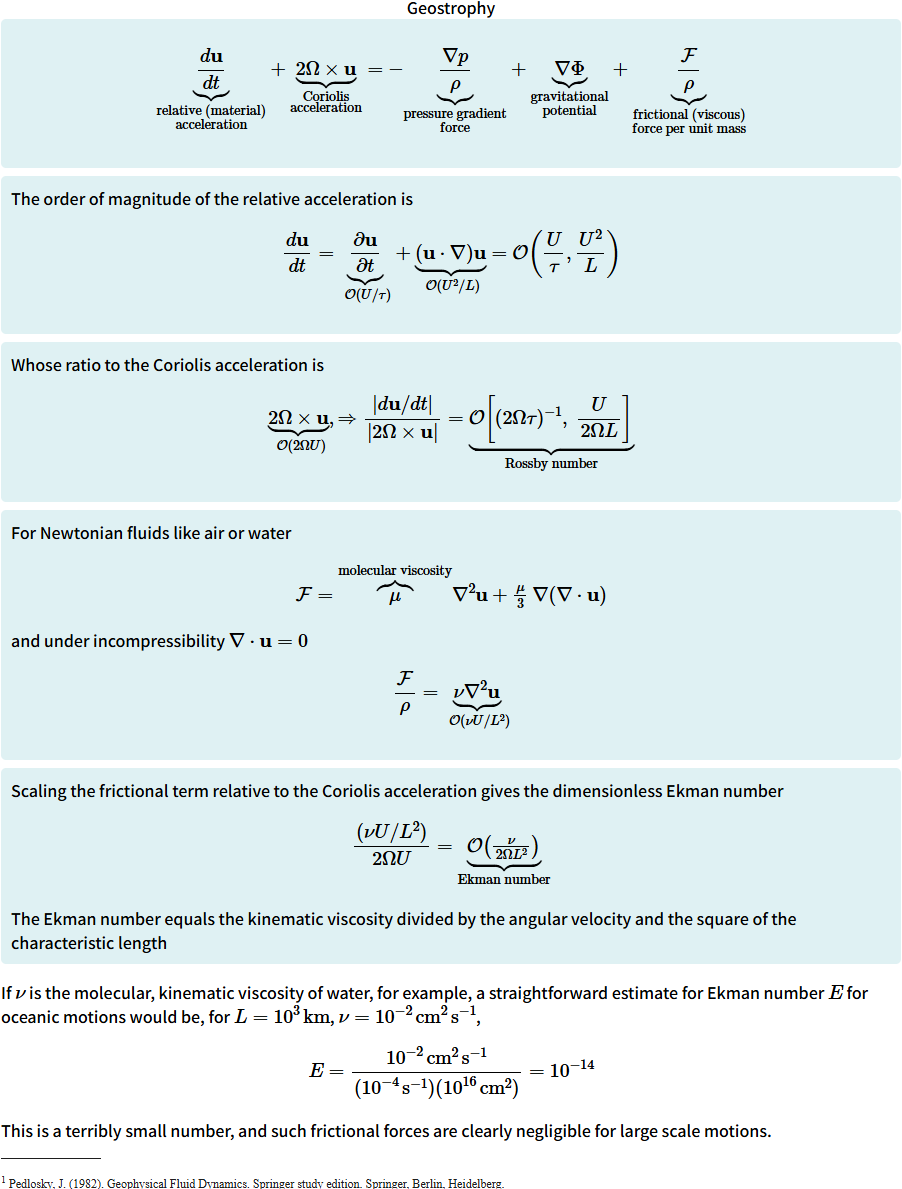
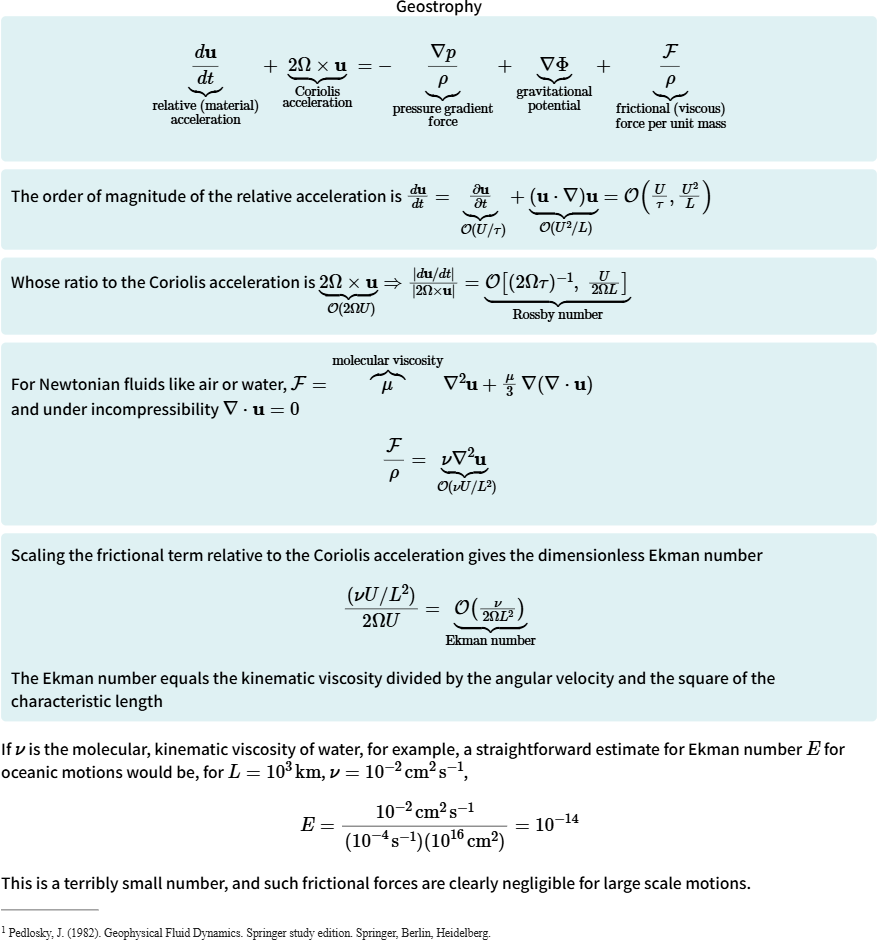
Update

Changed region(s): [[0.0, 0.5228, 1.0, 1.0], [0.0, 0.0, 1.0, 0.4613], [0.3686, 0.4613, 0.6758, 0.5228]]

diff --git a/Lecture5ASlide10.html b/Lecture5ASlide10.html
@@ -167,31 +167,31 @@ window.addEventListener('resize', scaleContainer);
 
 <div class="description">
 The order of magnitude of the relative acceleration is
-\[
+\(
 \frac{d\mathbf{u}}{dt} 
 = \underbrace{\frac{\partial \mathbf{u}}{\partial t}}_{\;\mathcal{O}(U/\tau)} 
 + \underbrace{(\mathbf{u} \cdot \nabla)\mathbf{u}}_{\;\mathcal{O}(U^2/L)}
 = \mathcal{O}\!\left(\frac{U}{\tau}, \frac{U^2}{L}\right)
-\]
+\)
 </div>
 
 <div class="description">
 Whose ratio to the Coriolis acceleration is
-\[
+\(
 \underbrace{2\Omega \times \mathbf{u}}_{\;\mathcal{O}(2\Omega U)}
 \Rightarrow 
 \frac{|d\mathbf{u}/dt|}{|2\Omega \times \mathbf{u}|}
 = \underbrace{\mathcal{O}\!\left[(2\Omega\tau)^{-1}, \;\frac{U}{2\Omega L}\right]}_{\text{Rossby number}}
-\]
+\)
 </div>
 
 <div class="description">
-For Newtonian fluids like air or water
-\[
+For Newtonian fluids like air or water,
+\(
 \mathcal{F} 
 = \overbrace{\mu}^{\text{molecular viscosity}} \nabla^2 \mathbf{u} 
 + \tfrac{\mu}{3}\,\nabla(\nabla \cdot \mathbf{u})
-\]
+\)<br>
 and under incompressibility \(\nabla \cdot \mathbf{u} = 0\)
 \[
 \frac{\mathcal{F}}{\rho} 
